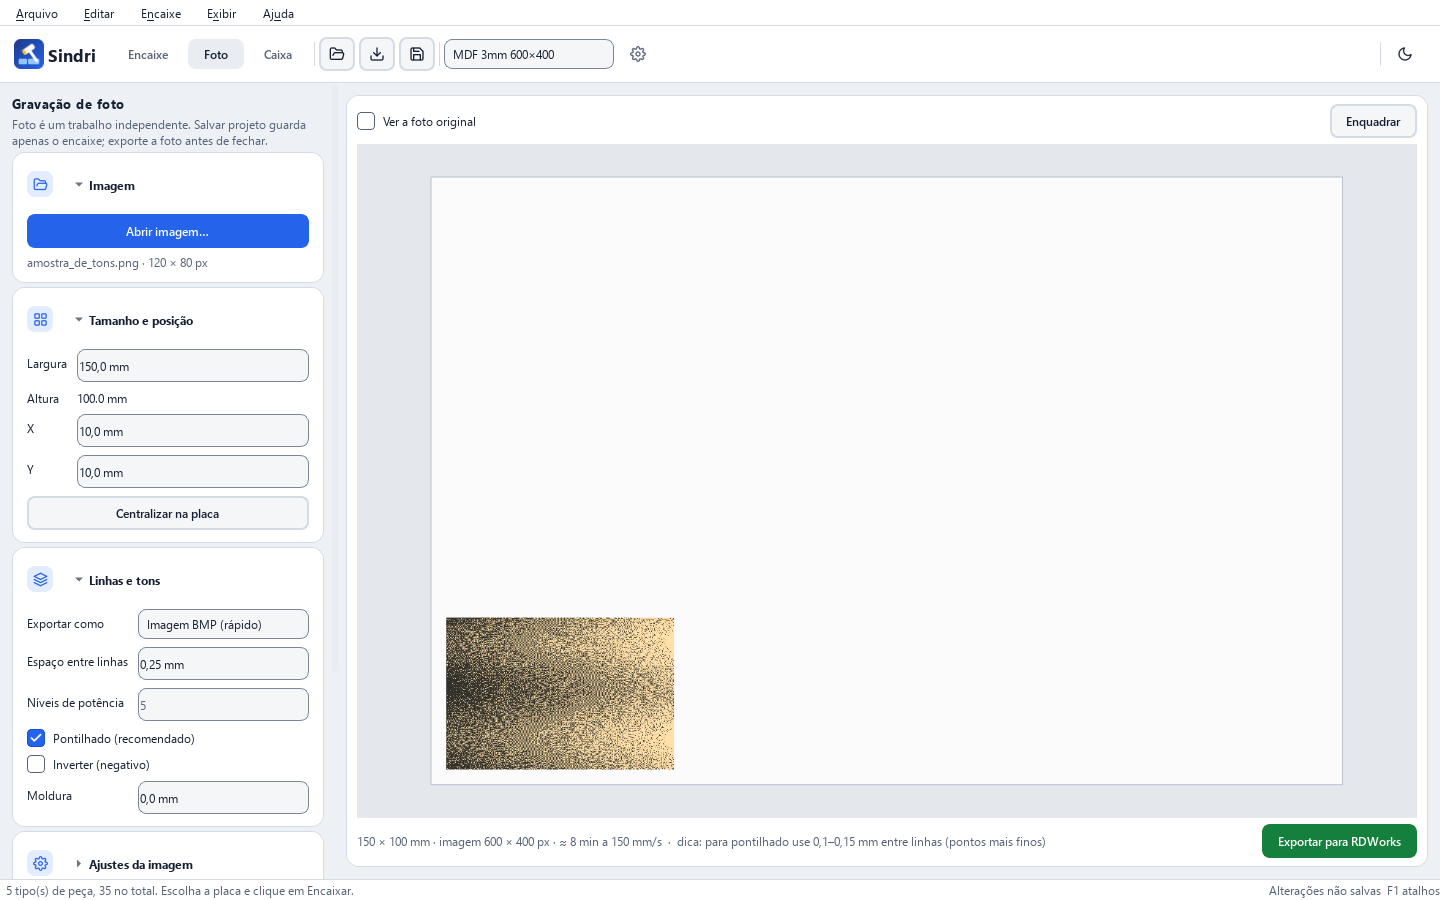
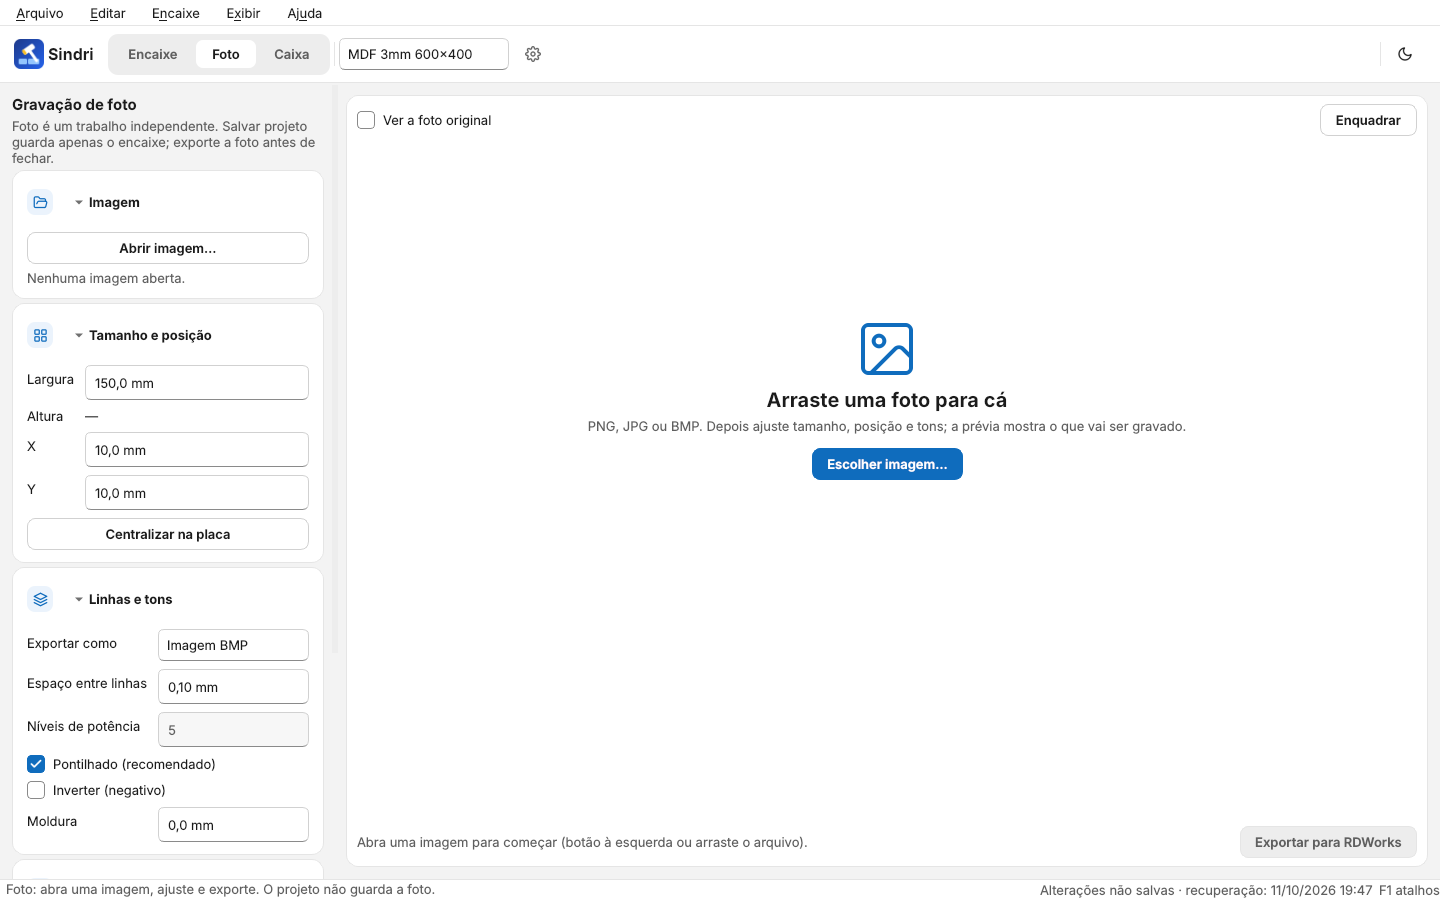
docs: capturas do visual Fluent, decisões 86–89 e direção de design
Claude-Session: https://claude.ai/code/session_01Fz5EpRVLPvLubCrUAZ11qH

Changed region(s): [[0.0, 0.0, 1.0, 0.9956], [0.4062, 0.3422, 0.8125, 0.56]]

diff --git a/DECISIONS.md b/DECISIONS.md
@@ -287,3 +287,20 @@ Registro das escolhas feitas onde a especificação deixava espaço, conforme pe
     na dica); quando a linha é estreita, "Feito" vira só o ✓ (mesmo limite para todas as linhas). O canvas volta a enquadrar
     tudo quando a janela muda de tamanho, até o usuário dar zoom ou arrastar a vista (os rótulos das placas
     não ficam mais cortados). Na Foto, "Exportar como" tem textos curtos; recomendado/experimental na dica.
+86. **Visual "Fluent" (combinação escolhida pelo laboratório, 11/10/2026)**: paleta do Windows 11 (fundo #f3f3f3,
+    cartões brancos com borda de 1 px, acento #0f6cbd; escuro com #202020/#2b2b2b e acento claro #60cdff),
+    campos com traço inferior mais escuro (contraste do controle ≥ 3:1), texto base 10 pt e Segoe UI Variable
+    quando existir. Os três painéis do Encaixe são cartões sobre o fundo cinza; parâmetros num cartão só, com
+    títulos de seção em maiúsculas (continuam recolhíveis) e chaves liga/desliga nas opções booleanas.
+87. **Papéis dos botões**: antes do 1º encaixe "Encaixar" é o botão principal (azul); depois, "Exportar" passa a
+    ser o principal e "Encaixar de novo" fica secundário. O Exportar da Foto usa o mesmo azul. Abrir DXF,
+    intranet e salvar ficam só como ícones (nome na dica e no nome acessível).
+88. **Peças em cartões**: grade de 2 colunas (QListWidget em modo ícone, mesma lista e mesmos índices de antes,
+    então filtros por solicitação e seleção pelo desenho continuam iguais) com miniatura "em MDF" (contorno de
+    corte marrom; outras cores mantêm a cor do desenho), ×quantidade, medida, ✓ de feita, material, aviso e
+    rotação fixa. Quantidade (− / +) e rotação fixa ficam no bloco da peça selecionada. O último cartão é
+    "Adicionar DXF" (= Ctrl+Shift+O). No modo grade o Qt desconta a barra de rolagem duas vezes ao quebrar
+    linhas; a largura do cartão reserva essa folga.
+89. **Rodapé de métricas**: quatro células (aproveitamento, placas, peças, tempo estimado) com números em fonte
+    monoespaçada. A 4ª célula mostra as soluções testadas enquanto otimiza e o tempo de máquina depois (mesma
+    conta do relatório, guardada até o encaixe mudar; detalhe por placa na dica).

diff --git a/DESIGN_DIRECTION.md b/DESIGN_DIRECTION.md
@@ -11,8 +11,10 @@ identificação no canvas, acesso contextual e redução de rolagem nos formulá
 Implementar tokens, depois componentes e por último a organização das telas.
 
 ## Fundação
-Paletas clara/escura em app/ui/theme.py. Neutros 50–950 e tokens semânticos.
-Segoe UI, com corpo 9 pt, auxiliares 9 pt, títulos 10/13/15 pt.
+Visual "Fluent" (Windows 11), escolhido em 11/10/2026 entre três direções (decisões 86–89).
+Paletas clara/escura em app/ui/theme.py: fundo cinza, cartões brancos com borda de 1 px, acento #0f6cbd.
+Segoe UI Variable (ou Segoe UI), com corpo 10 pt, auxiliares 9 pt, títulos 11/13/15 pt; números do
+rodapé em fonte monoespaçada.
 Escala de espaçamento 4/8/12/16/24/32; raios 4/8/12; controles nativos Qt.
 Sem animação decorativa: feedback imediato preserva desempenho e reduz movimento.
 Ícones vetoriais existentes, sem dependências de rede nem novos recursos externos.

diff --git a/README.md b/README.md
@@ -20,7 +20,7 @@ compacta possível nas placas e entrega um único DXF pronto para o **RDWorks**,
 
 <br>
 
-<img src="docs/design/encaixe_claro.png" alt="Sindri — lote com 3 solicitações encaixadas em 2 placas" width="900">
+<img src="docs/design/encaixe_claro.png" alt="Sindri — 35 peças encaixadas em 2 placas, com a lista de peças em cartões e o rodapé de métricas" width="900">
 
 <sub>Um lote com 3 solicitações em MDF 3 mm: cada peça leva a cor e o nº da solicitação de quem pediu.</sub>
 
@@ -307,7 +307,7 @@ segue passos numerados, no estilo do MakerCase, com botões ilustrados; a prévi
 mostra só os passos de que precisa.
 
 <div align="center">
-<img src="docs/design/caixa.png" alt="Sindri — gerador de caixas com tampa baú aberta na prévia 3D" width="900">
+<img src="docs/design/caixa.png" alt="Sindri — gerador de caixas com a prévia 3D" width="900">
 </div>
 
 **Modelos** (passo 1):
